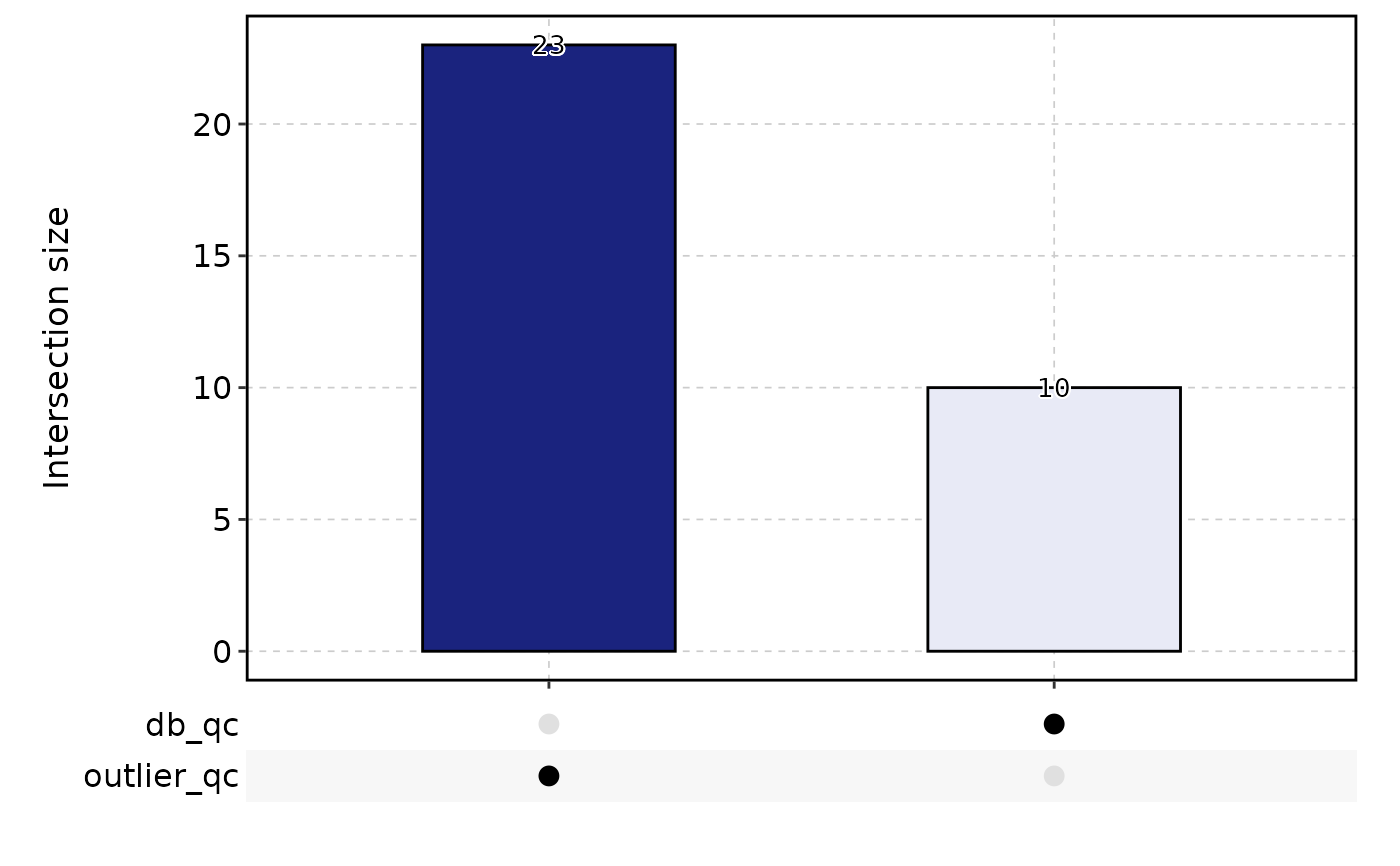
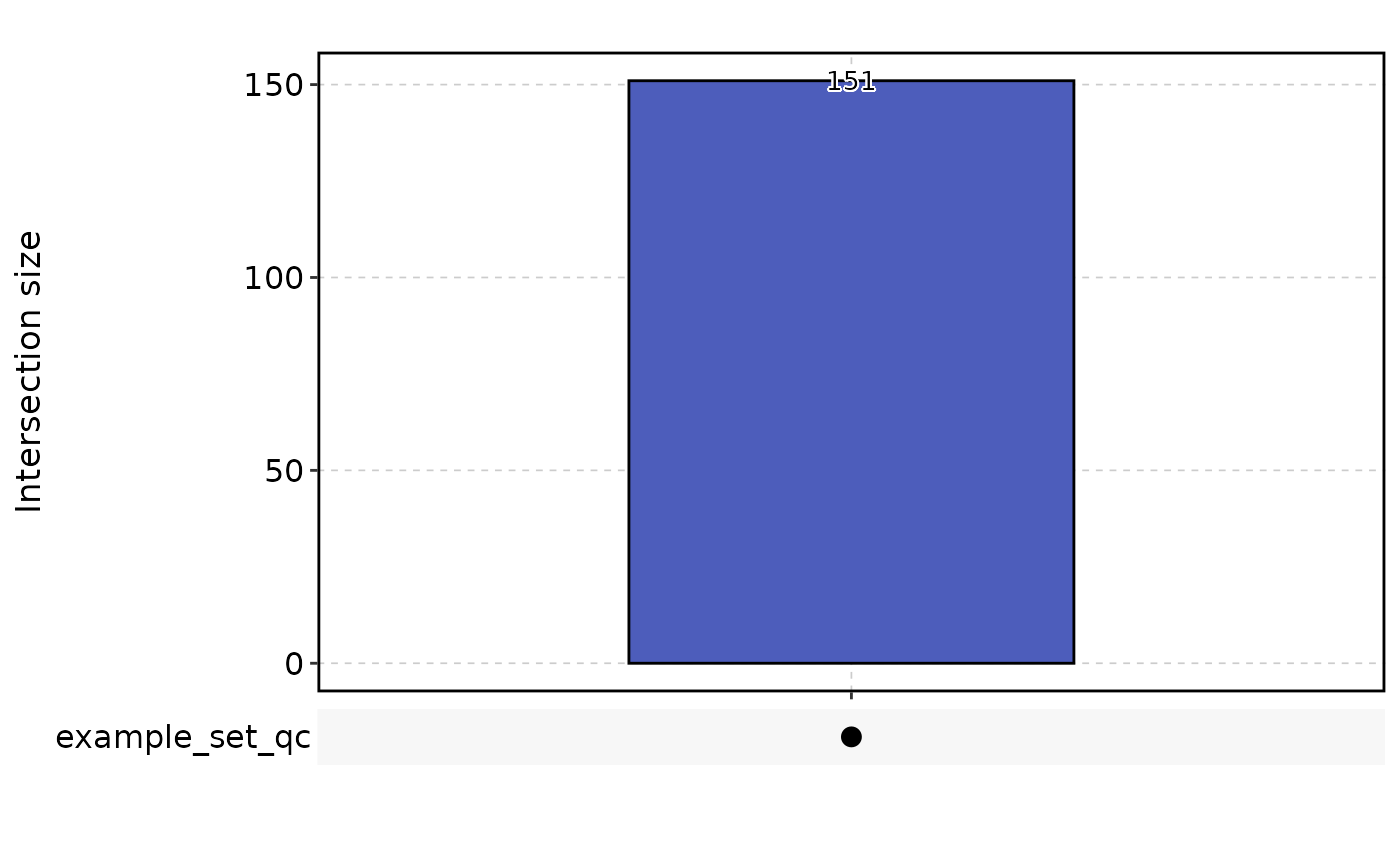
Deploying to gh-pages from @ mengxu98/scop@4eb4d4ff2f2335a01fb43f0eea9bbb1f95516507 🚀

diff --git a/reference/RunCellQC.html b/reference/RunCellQC.html
@@ -18,8 +18,21 @@
       <ul class="navbar-nav me-auto"><li class="nav-item dropdown">
   <button class="nav-link dropdown-toggle" type="button" id="dropdown-articles" data-bs-toggle="dropdown" aria-expanded="false" aria-haspopup="true">Articles</button>
   <ul class="dropdown-menu" aria-labelledby="dropdown-articles"><li><hr class="dropdown-divider"></li>
-    <li><h6 class="dropdown-header" data-toc-skip>Spatial transcriptomics</h6></li>
+    <li><h6 class="dropdown-header" data-toc-skip>Basic workflows</h6></li>
+    <li><a class="dropdown-item" href="../articles/single-cell-main-workflow.html">Single-cell main workflow</a></li>
+    <li><a class="dropdown-item" href="../articles/reproduce-pancreatic-endocrinogenesis.html">Reproducing pancreatic endocrinogenesis</a></li>
+    <li><a class="dropdown-item" href="../articles/integration-workflow.html">Data integration workflow</a></li>
+    <li><a class="dropdown-item" href="../articles/cell-annotation-workflow.html">Cell annotation workflow</a></li>
+    <li><a class="dropdown-item" href="../articles/trajectory-dynamic-workflow.html">Trajectory and dynamic feature workflow</a></li>
+    <li><a class="dropdown-item" href="../articles/differential-enrichment-workflow.html">Differential expression and enrichment workflow</a></li>
+    <li><a class="dropdown-item" href="../articles/interactive-scexplorer-workflow.html">Interactive SCExplorer workflow</a></li>
+    <li><hr class="dropdown-divider"></li>
+    <li><h6 class="dropdown-header" data-toc-skip>Spatial Analysis</h6></li>
     <li><a class="dropdown-item" href="../articles/spatial-main-workflow.html">Spatial transcriptomics main workflow</a></li>
+    <li><a class="dropdown-item" href="../articles/spatial-framework-bridges.html">Spatial framework bridges and Giotto compatibility</a></li>
+    <li><hr class="dropdown-divider"></li>
+    <li><h6 class="dropdown-header" data-toc-skip>Cell-cell communication</h6></li>
+    <li><a class="dropdown-item" href="../articles/cell-cell-communication-workflow.html">Cell-cell communication workflow</a></li>
   </ul></li>
 <li class="active nav-item"><a class="nav-link" href="../reference/index.html">Reference</a></li>
 <li class="nav-item"><a class="nav-link" href="../news/index.html">Changelog</a></li>
@@ -88,7 +101,11 @@
 <span>  species_gene_prefix <span class="op">=</span> <span class="cn">NULL</span>,</span>
 <span>  species_percent <span class="op">=</span> <span class="fl">95</span>,</span>
 <span>  seed <span class="op">=</span> <span class="fl">11</span>,</span>
-<span>  verbose <span class="op">=</span> <span class="cn">TRUE</span></span>
+<span>  verbose <span class="op">=</span> <span class="cn">TRUE</span>,</span>
+<span>  hb_range <span class="op">=</span> <span class="fu"><a href="https://rdrr.io/r/base/c.html" class="external-link">c</a></span><span class="op">(</span><span class="fl">0</span>, <span class="fl">5</span><span class="op">)</span>,</span>
+<span>  hb_pattern <span class="op">=</span> <span class="fu"><a href="https://rdrr.io/r/base/c.html" class="external-link">c</a></span><span class="op">(</span><span class="st">"HB[^P]"</span>, <span class="st">"Hb[^p]"</span>, <span class="st">"hb[^p]"</span><span class="op">)</span>,</span>
+<span>  hb_gene <span class="op">=</span> <span class="cn">NULL</span>,</span>
+<span>  qc_features <span class="op">=</span> <span class="fu"><a href="https://rdrr.io/r/base/list.html" class="external-link">list</a></span><span class="op">(</span><span class="op">)</span></span>
 <span><span class="op">)</span></span></code></pre></div>
     </div>
 
@@ -125,7 +142,8 @@ Default is <code>FALSE</code>.</p></dd>
 <dt id="arg-qc-metrics">qc_metrics<a class="anchor" aria-label="anchor" href="#arg-qc-metrics"></a></dt>
 <dd><p>A character vector specifying the quality control metrics to be applied.
 Available metrics are <code>"doublets"</code>, <code>"decontX"</code>, <code>"atac"</code>, <code>"outlier"</code>, <code>"umi"</code>, <code>"gene"</code>,
-<code>"mito"</code>, <code>"ribo"</code>, <code>"ribo_mito_ratio"</code>, and <code>"species"</code>.
+<code>"mito"</code>, <code>"ribo"</code>, <code>"hb"</code>, <code>"ribo_mito_ratio"</code>, <code>"species"</code>, and any
+rule name supplied in <code>qc_features</code>.
 Default is <code>c("doublets", "decontX", "outlier", "umi", "gene", "mito", "ribo", "ribo_mito_ratio", "species")</code>.
 For <code>ChromatinAssay</code>, if <code>.arg qc_metrics</code> is not supplied, the default is <code>"atac"</code>.</p></dd>
 
@@ -292,6 +310,34 @@ Default is <code>11</code>.</p></dd>
 <dd><p>Whether to print the message.
 Default is <code>TRUE</code>.</p></dd>
 
+
+<dt id="arg-hb-range">hb_range<a class="anchor" aria-label="anchor" href="#arg-hb-range"></a></dt>
+<dd><p>A numeric vector specifying the accepted percentage range for
+hemoglobin features. Values outside the range fail <code>hb_qc</code> when <code>"hb"</code> is
+included in <code>qc_metrics</code>. Default is <code>c(0, 5)</code>.</p></dd>
+
+
+<dt id="arg-hb-pattern">hb_pattern<a class="anchor" aria-label="anchor" href="#arg-hb-pattern"></a></dt>
+<dd><p>Regex patterns used to match hemoglobin features. The
+defaults match common human, mouse, and lower-case symbols while excluding
+<code>HBP</code>/<code>hbp</code> genes. Default is <code>c("HB[^P]", "Hb[^p]", "hb[^p]")</code>.</p></dd>
+
+
+<dt id="arg-hb-gene">hb_gene<a class="anchor" aria-label="anchor" href="#arg-hb-gene"></a></dt>
+<dd><p>A defined set of hemoglobin features. When supplied, these
+features are used instead of <code>hb_pattern</code>. Default is <code>NULL</code>.</p></dd>
+
+
+<dt id="arg-qc-features">qc_features<a class="anchor" aria-label="anchor" href="#arg-qc-features"></a></dt>
+<dd><p>A named list defining additional feature-percentage QC
+rules. Each rule must contain exactly one of <code>features</code> (a character vector)
+or <code>pattern</code> (one or more regex patterns), plus a numeric <code>range</code> of length
+two. Providing a rule computes <code>percent.&lt;name&gt;</code>; the rule filters cells and
+creates <code>&lt;name&gt;_qc</code> only when <code>&lt;name&gt;</code> is included in <code>qc_metrics</code>.
+Patterns are matched directly against assay feature names and do not receive
+species prefixes. Rule names cannot collide with built-in QC columns.
+Default is <code><a href="https://rdrr.io/r/base/list.html" class="external-link">list()</a></code>.</p></dd>
+
 </dl></div>
     <div class="section level2">
     <h2 id="value">Value<a class="anchor" aria-label="anchor" href="#value"></a></h2>
@@ -302,66 +348,64 @@ Default is <code>TRUE</code>.</p></dd>
     <h2 id="ref-examples">Examples<a class="anchor" aria-label="anchor" href="#ref-examples"></a></h2>
     <div class="sourceCode"><pre class="sourceCode r"><code><span class="r-in"><span><span class="fu"><a href="https://rdrr.io/r/utils/data.html" class="external-link">data</a></span><span class="op">(</span><span class="va">pancreas_sub</span><span class="op">)</span></span></span>
 <span class="r-in"><span><span class="va">pancreas_sub</span> <span class="op">&lt;-</span> <span class="fu"><a href="standard_scop.html">standard_scop</a></span><span class="op">(</span><span class="va">pancreas_sub</span><span class="op">)</span></span></span>
-<span class="r-msg co"><span class="r-pr">#&gt;</span> <span style="color: #00BBBB;">ℹ</span> [2026-07-02 09:27:23] <span style="color: #0000BB;">Start standard processing workflow...</span></span>
-<span class="r-msg co"><span class="r-pr">#&gt;</span> <span style="color: #00BBBB;">ℹ</span> [2026-07-02 09:27:24] Checking a list of <span style="color: #0000BB;">&lt;Seurat&gt;</span>...</span>
-<span class="r-msg co"><span class="r-pr">#&gt;</span> <span style="color: #BBBB00;">!</span> [2026-07-02 09:27:24] Data <span style="color: #0000BB;">1</span>/<span style="color: #0000BB;">1</span> of the `srt_list` is <span style="color: #0000BB;">"unknown"</span></span>
-<span class="r-msg co"><span class="r-pr">#&gt;</span> <span style="color: #00BBBB;">ℹ</span> [2026-07-02 09:27:24] Perform `NormalizeData()` with `normalization.method = 'LogNormalize'` on <span style="color: #0000BB;">1</span>/<span style="color: #0000BB;">1</span> of `srt_list`...</span>
-<span class="r-msg co"><span class="r-pr">#&gt;</span> <span style="color: #00BBBB;">ℹ</span> [2026-07-02 09:27:24] Perform `FindVariableFeatures()` on <span style="color: #0000BB;">1</span>/<span style="color: #0000BB;">1</span> of `srt_list`...</span>
-<span class="r-msg co"><span class="r-pr">#&gt;</span> <span style="color: #00BBBB;">ℹ</span> [2026-07-02 09:27:24] Use the separate HVF from `srt_list`</span>
-<span class="r-msg co"><span class="r-pr">#&gt;</span> <span style="color: #00BBBB;">ℹ</span> [2026-07-02 09:27:24] Number of available HVF: <span style="color: #0000BB;">2000</span></span>
-<span class="r-msg co"><span class="r-pr">#&gt;</span> <span style="color: #00BBBB;">ℹ</span> [2026-07-02 09:27:24] Finished check</span>
-<span class="r-msg co"><span class="r-pr">#&gt;</span> <span style="color: #00BBBB;">ℹ</span> [2026-07-02 09:27:24] Perform `ScaleData()`</span>
-<span class="r-msg co"><span class="r-pr">#&gt;</span> <span style="color: #00BBBB;">ℹ</span> [2026-07-02 09:27:24] Perform <span style="color: #0000BB;">pca</span> linear dimension reduction</span>
-<span class="r-msg co"><span class="r-pr">#&gt;</span> <span style="color: #00BBBB;">ℹ</span> [2026-07-02 09:27:25] Use stored estimated dimensions <span style="color: #0000BB;">1</span>:<span style="color: #0000BB;">23</span> for <span style="color: #0000BB;">Standardpca</span></span>
-<span class="r-msg co"><span class="r-pr">#&gt;</span> <span style="color: #00BBBB;">ℹ</span> [2026-07-02 09:27:25] Perform `Seurat::FindClusters()` with `cluster_algorithm = 'louvain'` and `cluster_resolution = 0.6`</span>
-<span class="r-msg co"><span class="r-pr">#&gt;</span> <span style="color: #00BBBB;">ℹ</span> [2026-07-02 09:27:25] Reorder clusters...</span>
-<span class="r-msg co"><span class="r-pr">#&gt;</span> <span style="color: #00BBBB;">ℹ</span> [2026-07-02 09:27:26] Skip `log1p()` because `layer = data` is not <span style="color: #0000BB;">"counts"</span></span>
-<span class="r-msg co"><span class="r-pr">#&gt;</span> <span style="color: #00BBBB;">ℹ</span> [2026-07-02 09:27:26] Perform <span style="color: #0000BB;">umap</span> nonlinear dimension reduction</span>
-<span class="r-msg co"><span class="r-pr">#&gt;</span> <span style="color: #00BB00;">✔</span> [2026-07-02 09:27:32] <span style="color: #00BB00;">Standard processing workflow completed</span></span>
+<span class="r-msg co"><span class="r-pr">#&gt;</span> <span style="color: #00BBBB;">ℹ</span> [2026-07-20 18:34:33] <span style="color: #0000BB;">Start standard processing workflow...</span></span>
+<span class="r-msg co"><span class="r-pr">#&gt;</span> <span style="color: #00BBBB;">ℹ</span> [2026-07-20 18:34:33] Checking a list of <span style="color: #0000BB;">&lt;Seurat&gt;</span>...</span>
+<span class="r-msg co"><span class="r-pr">#&gt;</span> <span style="color: #BBBB00;">!</span> [2026-07-20 18:34:33] Data <span style="color: #0000BB;">1</span>/<span style="color: #0000BB;">1</span> of the `srt_list` is <span style="color: #0000BB;">"unknown"</span></span>
+<span class="r-msg co"><span class="r-pr">#&gt;</span> <span style="color: #00BBBB;">ℹ</span> [2026-07-20 18:34:33] Perform `NormalizeData()` with `normalization.method = 'LogNormalize'` on <span style="color: #0000BB;">1</span>/<span style="color: #0000BB;">1</span> of `srt_list`...</span>
+<span class="r-msg co"><span class="r-pr">#&gt;</span> <span style="color: #00BBBB;">ℹ</span> [2026-07-20 18:34:33] Perform `FindVariableFeatures()` on <span style="color: #0000BB;">1</span>/<span style="color: #0000BB;">1</span> of `srt_list`...</span>
+<span class="r-msg co"><span class="r-pr">#&gt;</span> <span style="color: #00BBBB;">ℹ</span> [2026-07-20 18:34:33] Use the separate HVF from `srt_list`</span>
+<span class="r-msg co"><span class="r-pr">#&gt;</span> <span style="color: #00BBBB;">ℹ</span> [2026-07-20 18:34:33] Number of available HVF: <span style="color: #0000BB;">2000</span></span>
+<span class="r-msg co"><span class="r-pr">#&gt;</span> <span style="color: #00BBBB;">ℹ</span> [2026-07-20 18:34:33] Finished check</span>
+<span class="r-msg co"><span class="r-pr">#&gt;</span> <span style="color: #00BBBB;">ℹ</span> [2026-07-20 18:34:33] Perform `ScaleData()`</span>
+<span class="r-msg co"><span class="r-pr">#&gt;</span> <span style="color: #00BBBB;">ℹ</span> [2026-07-20 18:34:34] Perform <span style="color: #0000BB;">pca</span> linear dimension reduction</span>
+<span class="r-msg co"><span class="r-pr">#&gt;</span> <span style="color: #00BBBB;">ℹ</span> [2026-07-20 18:34:35] Use stored estimated dimensions <span style="color: #0000BB;">1</span>:<span style="color: #0000BB;">23</span> for <span style="color: #0000BB;">Standardpca</span></span>
+<span class="r-msg co"><span class="r-pr">#&gt;</span> <span style="color: #00BBBB;">ℹ</span> [2026-07-20 18:34:36] Perform `Seurat::FindClusters()` with `cluster_algorithm = 'louvain'` and `cluster_resolution = 0.6`</span>
+<span class="r-msg co"><span class="r-pr">#&gt;</span> <span style="color: #00BBBB;">ℹ</span> [2026-07-20 18:34:36] Reorder clusters...</span>
+<span class="r-msg co"><span class="r-pr">#&gt;</span> <span style="color: #00BBBB;">ℹ</span> [2026-07-20 18:34:36] Skip `log1p()` because `layer = data` is not <span style="color: #0000BB;">"counts"</span></span>
+<span class="r-msg co"><span class="r-pr">#&gt;</span> <span style="color: #00BBBB;">ℹ</span> [2026-07-20 18:34:36] Perform <span style="color: #0000BB;">umap</span> nonlinear dimension reduction</span>
+<span class="r-msg co"><span class="r-pr">#&gt;</span> <span style="color: #00BB00;">✔</span> [2026-07-20 18:34:40] <span style="color: #00BB00;">Standard processing workflow completed</span></span>
 <span class="r-in"><span><span class="va">pancreas_sub</span> <span class="op">&lt;-</span> <span class="fu">RunCellQC</span><span class="op">(</span></span></span>
 <span class="r-in"><span>  <span class="va">pancreas_sub</span>,</span></span>
-<span class="r-in"><span>  db_method <span class="op">=</span> <span class="st">"scds_cxds"</span></span></span>
+<span class="r-in"><span>  qc_metrics <span class="op">=</span> <span class="fu"><a href="https://rdrr.io/r/base/c.html" class="external-link">c</a></span><span class="op">(</span><span class="st">"umi"</span>, <span class="st">"gene"</span>, <span class="st">"example_set"</span><span class="op">)</span>,</span></span>
+<span class="r-in"><span>  qc_features <span class="op">=</span> <span class="fu"><a href="https://rdrr.io/r/base/list.html" class="external-link">list</a></span><span class="op">(</span></span></span>
+<span class="r-in"><span>    example_set <span class="op">=</span> <span class="fu"><a href="https://rdrr.io/r/base/list.html" class="external-link">list</a></span><span class="op">(</span></span></span>
+<span class="r-in"><span>      features <span class="op">=</span> <span class="fu"><a href="https://rdrr.io/r/utils/head.html" class="external-link">head</a></span><span class="op">(</span><span class="fu"><a href="https://rdrr.io/r/base/colnames.html" class="external-link">rownames</a></span><span class="op">(</span><span class="va">pancreas_sub</span><span class="op">)</span>, <span class="fl">5</span><span class="op">)</span>,</span></span>
+<span class="r-in"><span>      range <span class="op">=</span> <span class="fu"><a href="https://rdrr.io/r/base/c.html" class="external-link">c</a></span><span class="op">(</span><span class="fl">0</span>, <span class="fl">0</span><span class="op">)</span></span></span>
+<span class="r-in"><span>    <span class="op">)</span></span></span>
+<span class="r-in"><span>  <span class="op">)</span></span></span>
 <span class="r-in"><span><span class="op">)</span></span></span>
-<span class="r-msg co"><span class="r-pr">#&gt;</span> <span style="color: #FFAF00;">◌</span> [2026-07-02 09:27:32] Running cell-level quality control</span>
-<span class="r-msg co"><span class="r-pr">#&gt;</span> <span style="color: #00BBBB;">ℹ</span> [2026-07-02 09:27:32] Data type is raw counts</span>
-<span class="r-msg co"><span class="r-pr">#&gt;</span> <span style="color: #00BBBB;">ℹ</span> [2026-07-02 09:27:32] Running <span style="color: #0000BB;">scds</span> with method <span style="color: #0000BB;">"cxds"</span></span>
-<span class="r-msg co"><span class="r-pr">#&gt;</span> Registered S3 method overwritten by 'pROC':</span>
-<span class="r-msg co"><span class="r-pr">#&gt;</span>   method   from            </span>
-<span class="r-msg co"><span class="r-pr">#&gt;</span>   plot.roc spatstat.explore</span>
-<span class="r-msg co"><span class="r-pr">#&gt;</span> <span style="color: #BBBB00;">!</span> [2026-07-02 09:27:51] Skip <span style="color: #0000BB;">"atac"</span> QC because `assay = 'RNA'` is not a <span style="color: #0000BB;">&lt;ChromatinAssay&gt;</span></span>
-<span class="r-msg co"><span class="r-pr">#&gt;</span> <span style="color: #00BBBB;">ℹ</span> [2026-07-02 09:27:51] Running <span style="color: #0000BB;">decontX</span></span>
-<span class="r-wrn co"><span class="r-pr">#&gt;</span> <span class="warning">Warning: </span>'librarySizeFactors' is deprecated.</span>
-<span class="r-wrn co"><span class="r-pr">#&gt;</span> Use 'scrapper::centerSizeFactors' instead.</span>
-<span class="r-wrn co"><span class="r-pr">#&gt;</span> See help("Deprecated")</span>
-<span class="r-wrn co"><span class="r-pr">#&gt;</span> <span class="warning">Warning: </span>'normalizeCounts' is deprecated.</span>
-<span class="r-wrn co"><span class="r-pr">#&gt;</span> Use 'scrapper::normalizeCounts' instead.</span>
-<span class="r-wrn co"><span class="r-pr">#&gt;</span> See help("Deprecated")</span>
-<span class="r-msg co"><span class="r-pr">#&gt;</span> <span style="color: #00BBBB;">ℹ</span> [2026-07-02 09:31:01] decontX contamination (median/mean/max): 0.0136 / 0.1628 / 0.7465</span>
-<span class="r-msg co"><span class="r-pr">#&gt;</span> <span style="color: #00BBBB;">ℹ</span> [2026-07-02 09:31:01] decontX assay stored as decontXcounts</span>
-<span class="r-msg co"><span class="r-pr">#&gt;</span> <span style="color: #00BB00;">✔</span> [2026-07-02 09:31:01] <span style="color: #0000BB;">decontX</span> decontamination completed</span>
-<span class="r-msg co"><span class="r-pr">#&gt;</span> <span style="color: #00BB00;">✔</span> [2026-07-02 09:31:01] ● Total cells: <span style="color: #0000BB;">1000</span></span>
-<span class="r-msg co"><span class="r-pr">#&gt;</span> <span style="color: #00BB00;">✔</span>                       ◉ <span style="color: #0000BB;">967</span> cells remained</span>
-<span class="r-msg co"><span class="r-pr">#&gt;</span> <span style="color: #00BB00;">✔</span>                       ◯ <span style="color: #0000BB;">33</span> cells filtered out:</span>
-<span class="r-msg co"><span class="r-pr">#&gt;</span> <span style="color: #00BB00;">✔</span>                       ◯   <span style="color: #0000BB;">10</span> potential doublets</span>
-<span class="r-msg co"><span class="r-pr">#&gt;</span> <span style="color: #00BB00;">✔</span>                       ◯   <span style="color: #0000BB;">0</span> ATAC QC failed cells</span>
-<span class="r-msg co"><span class="r-pr">#&gt;</span> <span style="color: #00BB00;">✔</span>                       ◯   <span style="color: #0000BB;">0</span> high-contamination cells</span>
-<span class="r-msg co"><span class="r-pr">#&gt;</span> <span style="color: #00BB00;">✔</span>                       ◯   <span style="color: #0000BB;">23</span> outlier cells</span>
+<span class="r-msg co"><span class="r-pr">#&gt;</span> <span style="color: #FFAF00;">◌</span> [2026-07-20 18:34:40] Running cell-level quality control</span>
+<span class="r-msg co"><span class="r-pr">#&gt;</span> <span style="color: #00BBBB;">ℹ</span> [2026-07-20 18:34:40] Data type is raw counts</span>
+<span class="r-msg co"><span class="r-pr">#&gt;</span> <span style="color: #00BB00;">✔</span> [2026-07-20 18:34:41] ● Total cells: <span style="color: #0000BB;">1000</span></span>
+<span class="r-msg co"><span class="r-pr">#&gt;</span> <span style="color: #00BB00;">✔</span>                       ◉ <span style="color: #0000BB;">849</span> cells remained</span>
+<span class="r-msg co"><span class="r-pr">#&gt;</span> <span style="color: #00BB00;">✔</span>                       ◯ <span style="color: #0000BB;">151</span> cells filtered out:</span>
 <span class="r-msg co"><span class="r-pr">#&gt;</span> <span style="color: #00BB00;">✔</span>                       ◯   <span style="color: #0000BB;">0</span> low-UMI cells</span>
 <span class="r-msg co"><span class="r-pr">#&gt;</span> <span style="color: #00BB00;">✔</span>                       ◯   <span style="color: #0000BB;">0</span> low-gene cells</span>
-<span class="r-msg co"><span class="r-pr">#&gt;</span> <span style="color: #00BB00;">✔</span>                       ◯   <span style="color: #0000BB;">0</span> high-mito cells</span>
-<span class="r-msg co"><span class="r-pr">#&gt;</span> <span style="color: #00BB00;">✔</span>                       ◯   <span style="color: #0000BB;">0</span> high-ribo cells</span>
-<span class="r-msg co"><span class="r-pr">#&gt;</span> <span style="color: #00BB00;">✔</span>                       ◯   <span style="color: #0000BB;">0</span> ribo_mito_ratio outlier cells</span>
-<span class="r-msg co"><span class="r-pr">#&gt;</span> <span style="color: #00BB00;">✔</span>                       ◯   <span style="color: #0000BB;">0</span> species-contaminated cells</span>
+<span class="r-msg co"><span class="r-pr">#&gt;</span> <span style="color: #00BB00;">✔</span>                       ◯   151 example_set feature-QC outlier cells</span>
+<span class="r-in"><span><span class="fu"><a href="https://rdrr.io/r/utils/head.html" class="external-link">head</a></span><span class="op">(</span><span class="va">pancreas_sub</span><span class="op">@</span><span class="va">meta.data</span><span class="op">[</span>, <span class="fu"><a href="https://rdrr.io/r/base/c.html" class="external-link">c</a></span><span class="op">(</span><span class="st">"percent.hb"</span>, <span class="st">"percent.example_set"</span><span class="op">)</span><span class="op">]</span><span class="op">)</span></span></span>
+<span class="r-out co"><span class="r-pr">#&gt;</span>                  percent.hb percent.example_set</span>
+<span class="r-out co"><span class="r-pr">#&gt;</span> AAACCTGAGCCTTGAT 0.00000000          0.01414227</span>
+<span class="r-out co"><span class="r-pr">#&gt;</span> AAACCTGGTAAGTGGC 0.00000000          0.00000000</span>
+<span class="r-out co"><span class="r-pr">#&gt;</span> AAACGGGAGATATGGT 0.01614466          0.00000000</span>
+<span class="r-out co"><span class="r-pr">#&gt;</span> AAACGGGCAAAGAATC 0.00000000          0.00000000</span>
+<span class="r-out co"><span class="r-pr">#&gt;</span> AAACGGGGTACAGTTC 0.01089087          0.00000000</span>
+<span class="r-out co"><span class="r-pr">#&gt;</span> AAACGGGTCAGCTCTC 0.00000000          0.00000000</span>
+<span class="r-in"><span><span class="co"># Hemoglobin expression can be biological signal in erythroid samples;</span></span></span>
+<span class="r-in"><span><span class="co"># include "hb" in qc_metrics only when HB-based filtering is appropriate.</span></span></span>
 <span class="r-in"><span></span></span>
 <span class="r-in"><span><span class="fu"><a href="CellStatPlot.html">CellStatPlot</a></span><span class="op">(</span></span></span>
 <span class="r-in"><span>  <span class="va">pancreas_sub</span>,</span></span>
 <span class="r-in"><span>  stat.by <span class="op">=</span> <span class="fu"><a href="https://rdrr.io/r/base/c.html" class="external-link">c</a></span><span class="op">(</span></span></span>
-<span class="r-in"><span>    <span class="st">"db_qc"</span>, <span class="st">"outlier_qc"</span></span></span>
+<span class="r-in"><span>    <span class="st">"umi_qc"</span>, <span class="st">"gene_qc"</span>, <span class="st">"example_set_qc"</span></span></span>
 <span class="r-in"><span>  <span class="op">)</span>,</span></span>
 <span class="r-in"><span>  plot_type <span class="op">=</span> <span class="st">"upset"</span>,</span></span>
 <span class="r-in"><span>  stat_level <span class="op">=</span> <span class="st">"Fail"</span></span></span>
 <span class="r-in"><span><span class="op">)</span></span></span>
-<span class="r-msg co"><span class="r-pr">#&gt;</span> <span style="color: #BBBB00;">!</span> [2026-07-02 09:31:01] `stat_type` is forcibly set to <span style="color: #0000BB;">"count"</span> when plot <span style="color: #0000BB;">"sankey"</span>, <span style="color: #0000BB;">"chord"</span>, <span style="color: #0000BB;">"venn"</span>, and <span style="color: #0000BB;">"upset"</span></span>
+<span class="r-msg co"><span class="r-pr">#&gt;</span> <span style="color: #BBBB00;">!</span> [2026-07-20 18:34:41] `stat_type` is forcibly set to <span style="color: #0000BB;">"count"</span> when plot <span style="color: #0000BB;">"sankey"</span>, <span style="color: #0000BB;">"chord"</span>, <span style="color: #0000BB;">"venn"</span>, and <span style="color: #0000BB;">"upset"</span></span>
+<span class="r-wrn co"><span class="r-pr">#&gt;</span> <span class="warning">Warning: </span>Using `size` aesthetic for lines was deprecated in ggplot2 3.4.0.</span>
+<span class="r-wrn co"><span class="r-pr">#&gt;</span> <span style="color: #00BBBB;">ℹ</span> Please use `linewidth` instead.</span>
+<span class="r-wrn co"><span class="r-pr">#&gt;</span> <span style="color: #00BBBB;">ℹ</span> The deprecated feature was likely used in the <span style="color: #0000BB;">ggupset</span> package.</span>
+<span class="r-wrn co"><span class="r-pr">#&gt;</span>   Please report the issue at <span style="color: #0000BB; font-style: italic;">&lt;https://github.com/const-ae/ggupset/issues&gt;</span>.</span>
 <span class="r-msg co"><span class="r-pr">#&gt;</span> `geom_line()`: Each group consists of only one observation.</span>
 <span class="r-msg co"><span class="r-pr">#&gt;</span> <span style="color: #00BBBB;">ℹ</span> Do you need to adjust the <span style="color: #00BB00;">group</span> aesthetic?</span>
 <span class="r-msg co"><span class="r-pr">#&gt;</span> `geom_line()`: Each group consists of only one observation.</span>
@@ -378,7 +422,7 @@ Default is <code>TRUE</code>.</p></dd>
 </div>
 
 <div class="pkgdown-footer-right">
-  <p>Site built with <a href="https://pkgdown.r-lib.org/" class="external-link">pkgdown</a> 2.2.0.</p>
+  <p>Site built with <a href="https://pkgdown.r-lib.org/" class="external-link">pkgdown</a> 2.2.1.</p>
 </div>
 
     </footer></div>